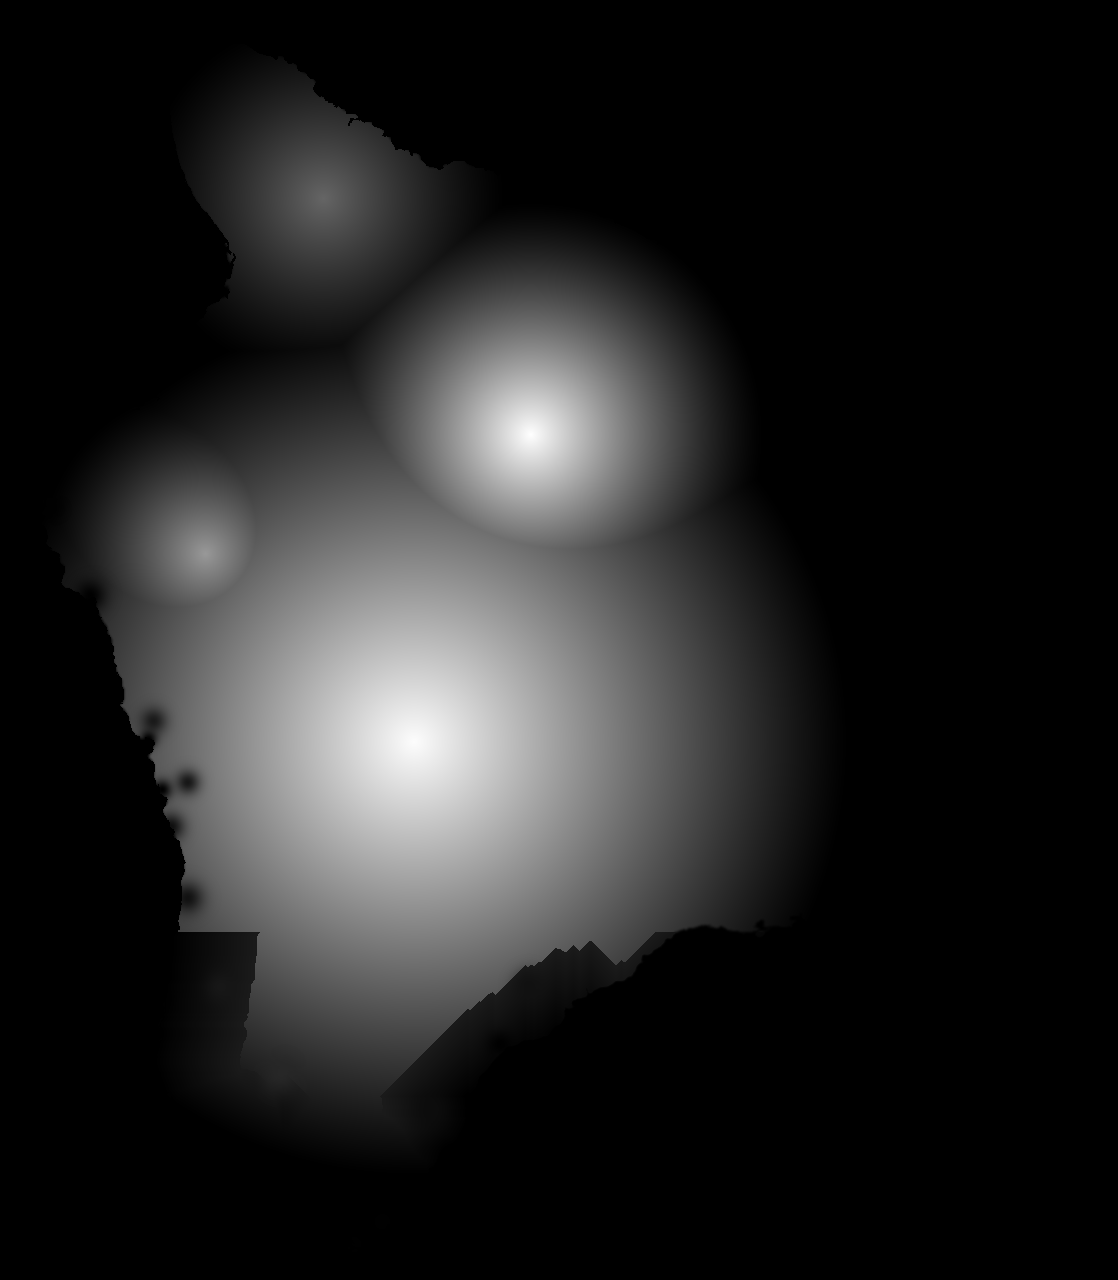
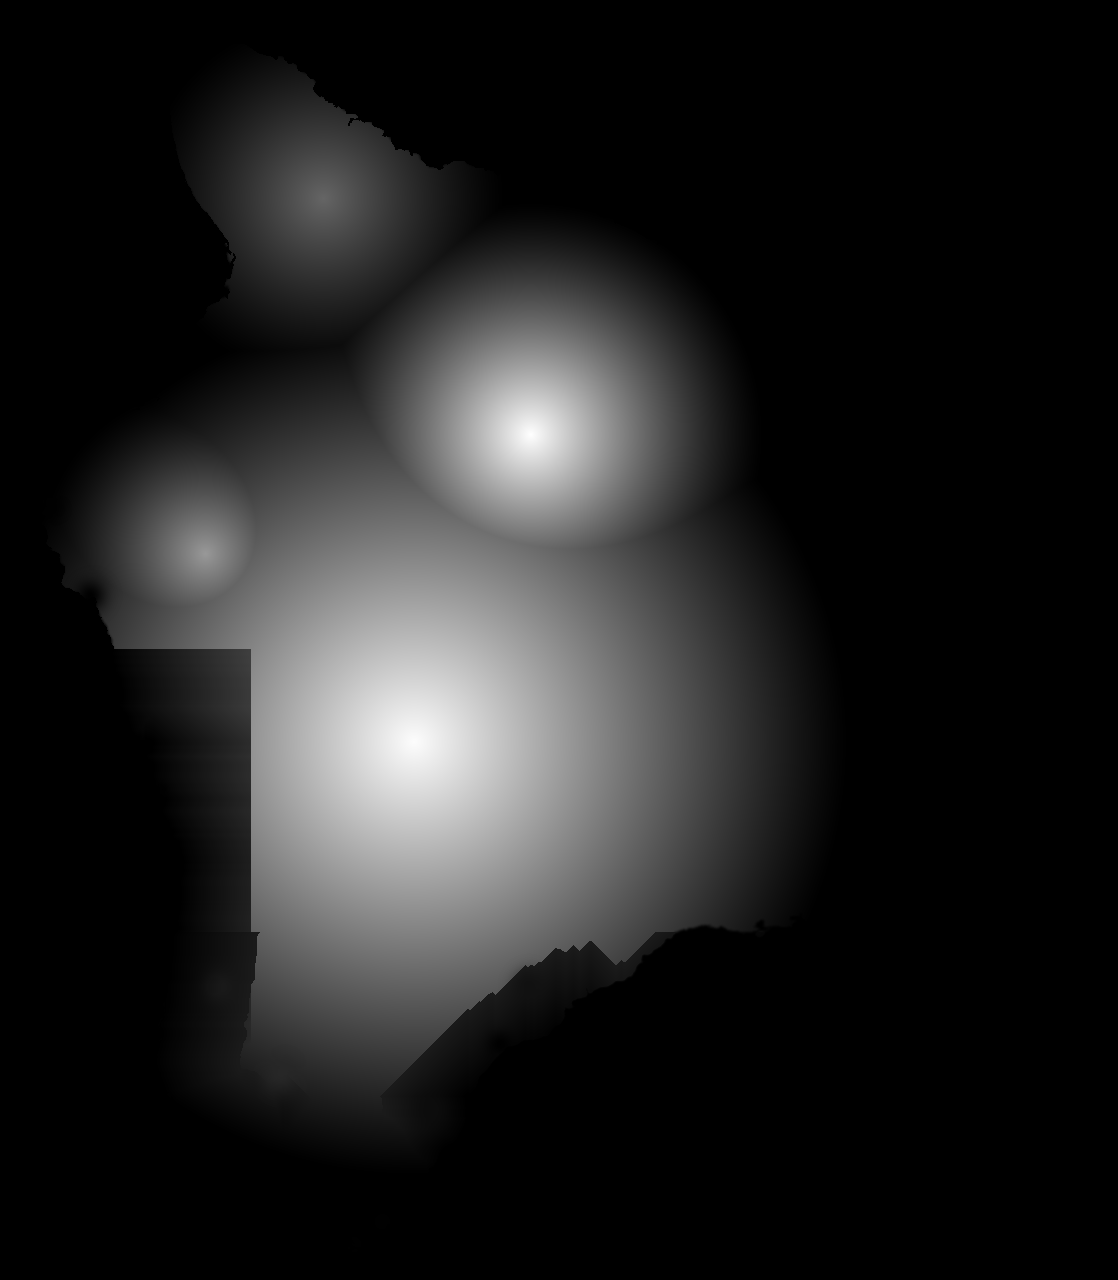
Give Captain Cook and Puʻuhonua the Ocean View slope
West side is one long lava grade. City of Refuge sits on the
flat at the bottom — back access, not a palis. Cliffs stay at Ka Lae.

Changed region(s): [[0.0912, 0.5, 0.2433, 0.75]]

diff --git a/src/lib/hawaii/places.ts b/src/lib/hawaii/places.ts
@@ -281,9 +281,9 @@ export const PLACES: Place[] = [
     kind: "place",
     region: "Kona",
     image: "/scenes/puuhonua.jpg",
-    kicker: "Place of refuge",
+    kicker: "Place of refuge, back access",
     story:
-      "A walled sanctuary on a lava shore. In the old kapu system, reaching this ground meant the chase ended. Kiʻi still watch the cove.",
+      "A walled sanctuary on a lava shore at the bottom of the South Kona slope. You come in from the highway above — back access, not a sea cliff. In the old kapu system, reaching this ground meant the chase ended. Kiʻi still watch the cove.",
   },
   {
     id: "kealakekua",
@@ -381,8 +381,8 @@ export const PLACES: Place[] = [
   {
     id: "captain-cook",
     name: "Captain Cook",
-    lat: 19.499,
-    lon: -155.921,
+    lat: 19.498,
+    lon: -155.904,
     kind: "place",
     region: "Kona",
     image: "/scenes/kona.jpg",

diff --git a/src/lib/hawaii/world.ts b/src/lib/hawaii/world.ts
@@ -54,7 +54,7 @@ async function decodePixels(src: string) {
 
 export async function loadHeightmap() {
   if (!heightPx) {
-    const h = await decodePixels("/maps/hawaii-height.png?v=kau4");
+    const h = await decodePixels("/maps/hawaii-height.png?v=kau5");
     heightPx = h.data;
     hw = h.w;
     hh = h.h;

diff --git a/scripts/fix-kau-height.py b/scripts/fix-kau-height.py
@@ -1,8 +1,9 @@
 #!/usr/bin/env python3
-"""Kaʻū-only height lock. Do not terrace the Kona / Hualālai shield.
+"""Kaʻū + South Kona heights.
 
-Punaluʻu = beach. Nāʻālehu = town upslope. West side stays a volcano slope,
-not a fake palis at the old 14 km clamp.
+Ocean View's long lava slope is the model for the whole west side down to
+Puʻuhonua. Cliffs belong at Ka Lae, not at the City of Refuge.
+Puʻuhonua is back-access: highway on the slope, sanctuary on the lava flat.
 """
 
 from __future__ import annotations
@@ -21,25 +22,24 @@ HEIGHT = ROOT / "public/maps/hawaii-height.png"
 GEO = dict(latMin=18.9108, latMax=20.268, lonMin=-156.0614, lonMax=-154.806)
 ISLAND_PX = dict(x=36, y=36, w=1046, h=1208)
 M_PER_PX = 150_000 / 1046
-KAU_LAT = 19.28  # south of this: Kaʻū terrace only
+KAU_LAT = 19.28
 
+# Surveyed pins. Captain Cook is the highway town, not the bay.
 CONTROLS = [
-    (19.1358, -155.5044, 8, 2.2),
-    (19.062, -155.588, 200, 3.0),
-    (19.202, -155.47, 280, 2.6),
-    (18.9108, -155.6813, 12, 2.4),
-    (18.9364, -155.6464, 18, 1.6),
-    (19.6399, -155.9969, 8, 2.8),  # Kailua-Kona waterfront
+    (19.1358, -155.5044, 8, 2.2),  # Punaluʻu
+    (19.062, -155.588, 200, 3.0),  # Nāʻālehu
+    (19.202, -155.47, 280, 2.6),  # Pāhala
+    (18.9108, -155.6813, 12, 2.4),  # Ka Lae
+    (18.9364, -155.6464, 18, 1.6),  # Papakōlea
+    (19.6399, -155.9969, 8, 2.8),  # Kona waterfront
     (19.7388, -156.0456, 14, 2.4),  # KOA
-    (19.4217, -155.9106, 6, 1.8),  # Puʻuhonua shore
     (19.102, -155.767, 640, 3.2),  # Ocean View
-    (19.20, -155.84, 380, 2.6),  # Hwy 11
-    (19.30, -155.88, 290, 2.8),  # Hwy 11 — kills the fake 1300 m wall
-    (19.38, -155.90, 240, 2.4),
-    (19.43, -155.88, 380, 2.2),  # coffee-belt above the refuge
-    (19.499, -155.921, 430, 2.4),  # Captain Cook
-    (19.4786, -155.927, 6, 1.5),  # Kealakekua Bay
-    (19.186, -155.908, 8, 1.6),  # Miloliʻi
+    (19.20, -155.84, 420, 2.8),  # Hwy 11
+    (19.30, -155.88, 360, 2.6),
+    (19.38, -155.89, 340, 2.4),
+    (19.498, -155.904, 350, 2.2),  # Captain Cook on Mamalahoa
+    (19.4217, -155.9106, 8, 1.0),  # Puʻuhonua lava flat only
+    (19.186, -155.908, 8, 1.4),  # Miloliʻi
 ]
 
 
@@ -122,9 +122,17 @@ def main() -> None:
 
     h, w = meters.shape
     lat = np.linspace(GEO["latMax"], GEO["latMin"], h)[:, None]
+    lon = np.linspace(GEO["lonMin"], GEO["lonMax"], w)[None, :]
+
+    # Kaʻū south of 19.28: keep Punaluʻu / Nāʻālehu terrace.
     kau = (lat < KAU_LAT) & ~ocean
-    cap = 8.0 + dist_km * 36.0
-    meters = np.where(kau & (dist_km < 12.0), np.minimum(meters, cap), meters)
+    meters = np.where(kau & (dist_km < 12.0), np.minimum(meters, 8.0 + dist_km * 36.0), meters)
+
+    # West side Ocean View → Puʻuhonua: SAME long lava slope, not a palis.
+    # ~52 m/km matches Ocean View (640 m / ~12 km). City of Refuge sits at the bottom.
+    west = (lon < -155.78) & (lat > 19.04) & (lat < 19.58) & ~ocean
+    target = 8.0 + dist_km * 52.0
+    meters = np.where(west, np.minimum(meters, target), meters)
 
     yy, xx = np.indices(meters.shape)
     for clat, clon, elev, radius_km in CONTROLS:
@@ -134,23 +142,28 @@ def main() -> None:
         wt = np.where(dkm < radius_km * 2.2, wt, 0)
         meters = meters * (1 - wt) + elev * wt
 
+    # Re-apply the west slope AFTER pins so Captain Cook cannot rebuild a cliff.
+    meters = np.where(west, np.minimum(meters, target), meters)
+
     meters[ocean] = 0
     meters = np.clip(meters, 0, 4205)
-    out = np.round(meters / 4205.0 * 255.0).astype(np.uint8)
-    Image.fromarray(out, mode="L").save(HEIGHT)
+    Image.fromarray(np.round(meters / 4205.0 * 255.0).astype(np.uint8), mode="L").save(HEIGHT)
 
-    print(f"{'place':20} {'after':>8} {'real':>8}")
-    for name, clat, clon, real in [
-        ("Punaluu", 19.1358, -155.5044, 8),
-        ("Naalehu", 19.062, -155.588, 200),
-        ("Ka Lae", 18.9108, -155.6813, 12),
-        ("Kona", 19.6399, -155.9969, 5),
-        ("Hualalai", 19.6869, -155.8586, 2521),
-        ("Ocean View", 19.102, -155.767, 640),
-        ("Mauna Kea", 19.8207, -155.4681, 4205),
+    print(f"{'place':22} {'m':>7} {'dist':>6}")
+    for name, clat, clon in [
+        ("Ocean View", 19.102, -155.767),
+        ("Hi11 19.30", 19.30, -155.88),
+        ("Captain Cook hwy", 19.498, -155.904),
+        ("upslope refuge", 19.43, -155.88),
+        ("Puuhonua", 19.4217, -155.9106),
+        ("Kealakekua", 19.4786, -155.927),
+        ("Ka Lae", 18.9108, -155.6813),
+        ("Hualalai", 19.6869, -155.8586),
+        ("Mauna Loa", 19.4756, -155.6081),
     ]:
         px, py = project(clat, clon)
-        print(f"{name:20} {meters[int(round(py)), int(round(px))]:8.0f} {real:8.0f}")
+        yi, xi = int(round(py)), int(round(px))
+        print(f"{name:22} {meters[yi, xi]:7.0f} {dist_km[yi, xi]:6.1f}")
 
 
 if __name__ == "__main__":
